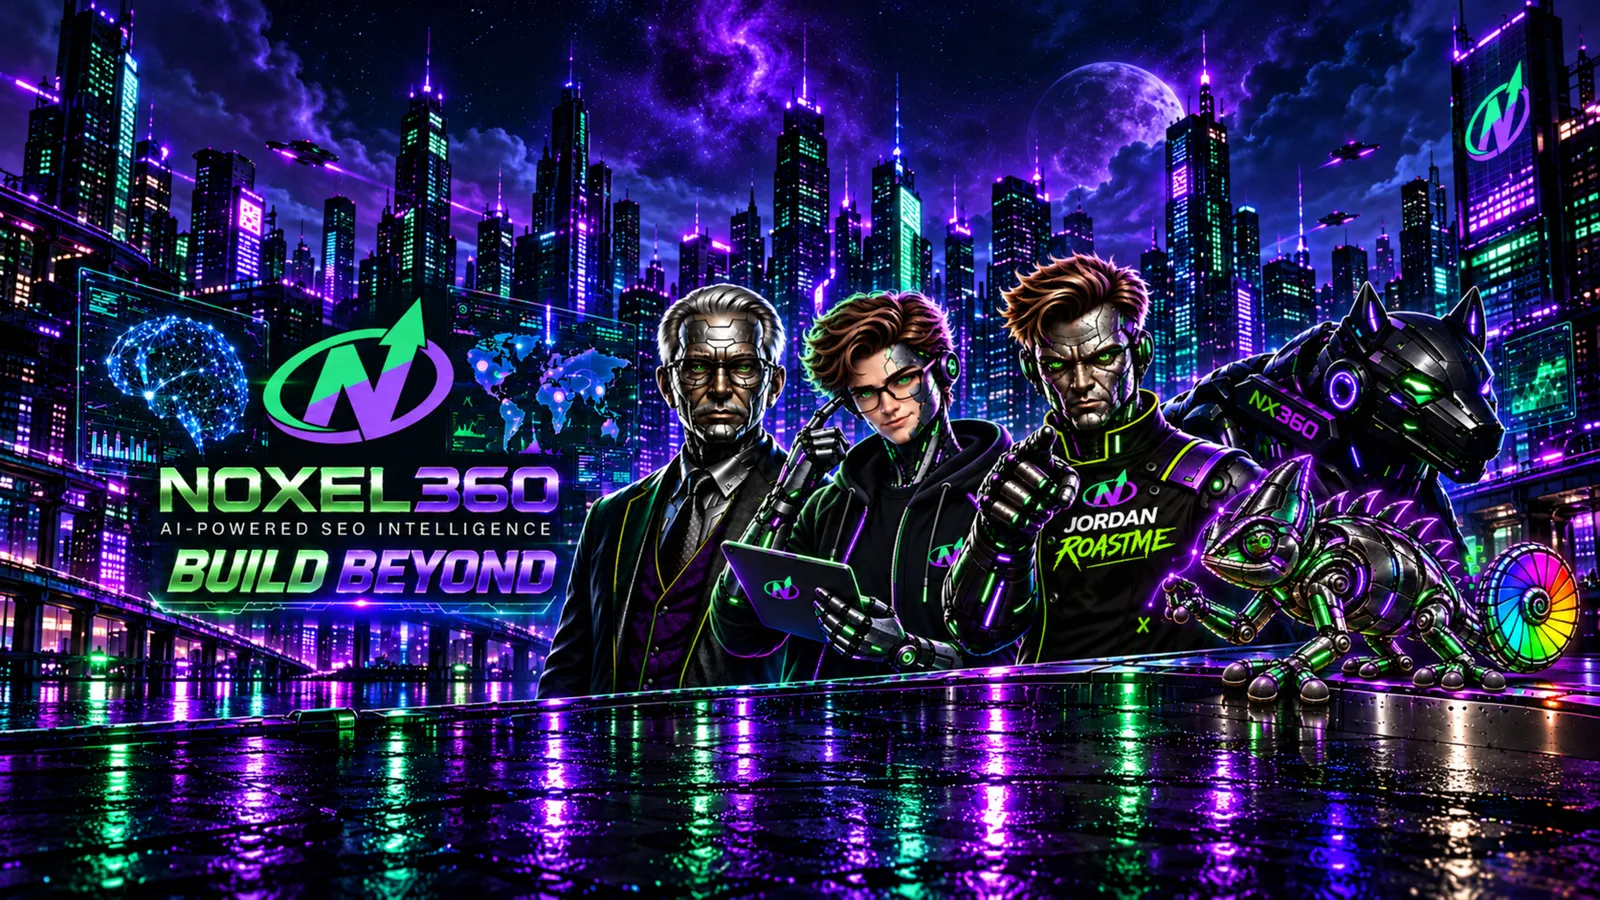
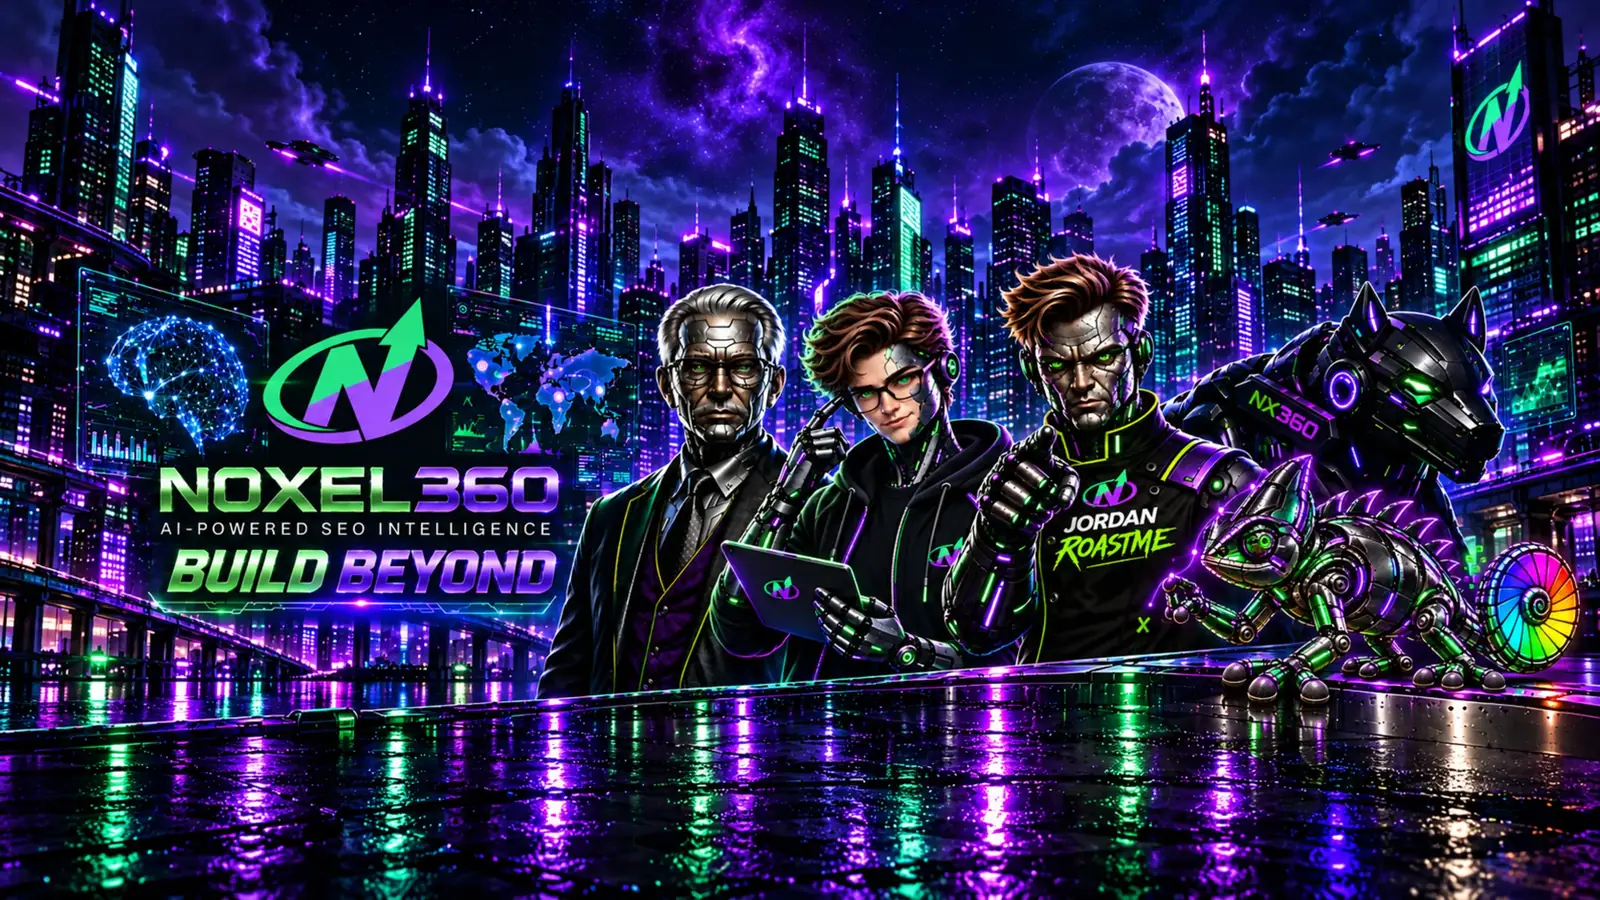
Scan des pages publiques : /dashboard et /nexus avec leur propre page, prix et équipe complétés
- scripts/route-pages.mjs : dist/dashboard.html et dist/nexus.html (titre, canonique,
  og, fil d'Ariane, texte de secours propres) ; réécritures vercel.json ; sitemap-core
- /pricing/ : titre de 54 caractères, H1 avec NOXEL360, Open Graph, JSON-LD
  (Organization, WebSite, WebPage, BreadcrumbList, FAQPage de la FAQ visible)
- /team/ : bannière en 800/1200/1600 px avec préchargement (LCP), Organization et
  WebSite, paragraphe « How the NOXEL team works together »
- Vidéo SPECTRA présentée comme en ligne (plus de bêta)

Claude-Session: https://claude.ai/code/session_01XfmUTvfHcRaKd6Xw6Nrt4c

diff --git a/frontend/public/pricing/index.html b/frontend/public/pricing/index.html
@@ -3,12 +3,77 @@
 <head>
   <meta charset="utf-8" />
   <meta name="viewport" content="width=device-width,initial-scale=1" />
-  <title>NOXEL360 — Pricing</title>
+  <title>NOXEL360 Pricing — NOXEL SEO, FORGE, NEXUS &amp; SPECTRA</title>
   <meta name="description" content="NOXEL360 links independent modules: NOXEL SEO, NOXEL FORGE, NOXEL NEXUS and NOXEL SPECTRA. Each module keeps its own plans and prices on its own site." />
   <link rel="canonical" href="https://noxel360.com/pricing/" />
   <link rel="alternate" hreflang="en" href="https://noxel360.com/pricing/" />
   <link rel="alternate" hreflang="x-default" href="https://noxel360.com/pricing/" />
   <link rel="icon" href="/favicon.ico" />
+  <meta property="og:type" content="website" />
+  <meta property="og:site_name" content="NOXEL360" />
+  <meta property="og:title" content="NOXEL360 Pricing — NOXEL SEO, FORGE, NEXUS &amp; SPECTRA" />
+  <meta property="og:description" content="NOXEL360 links independent modules. Each one keeps its plans and prices on its own site; NOXEL NEXUS is included and NOXEL SPECTRA is free today." />
+  <meta property="og:url" content="https://noxel360.com/pricing/" />
+  <meta property="og:image" content="https://noxel360.com/og-image.png" />
+  <meta property="og:image:width" content="1200" />
+  <meta property="og:image:height" content="630" />
+  <meta name="twitter:card" content="summary_large_image" />
+  <meta name="twitter:title" content="NOXEL360 Pricing — NOXEL SEO, FORGE, NEXUS &amp; SPECTRA" />
+  <meta name="twitter:description" content="Each NOXEL module keeps its plans and prices on its own site; NOXEL NEXUS is included and NOXEL SPECTRA is free today." />
+  <meta name="twitter:image" content="https://noxel360.com/og-image.png" />
+  <script type="application/ld+json">
+  {
+    "@context": "https://schema.org",
+    "@graph": [
+      {
+        "@type": "Organization",
+        "@id": "https://noxel360.com/#organization",
+        "name": "NOXEL360",
+        "url": "https://noxel360.com/",
+        "logo": "https://noxel360.com/favicon-512x512.png",
+        "sameAs": [
+          "https://www.facebook.com/NOXEL360/",
+          "https://www.linkedin.com/company/119803940/",
+          "https://www.tiktok.com/@noxel360",
+          "https://www.instagram.com/noxel360/",
+          "https://x.com/NOXEL360"
+        ]
+      },
+      {
+        "@type": "WebSite",
+        "@id": "https://noxel360.com/#website",
+        "name": "NOXEL360",
+        "url": "https://noxel360.com/",
+        "publisher": { "@id": "https://noxel360.com/#organization" }
+      },
+      {
+        "@type": "WebPage",
+        "name": "NOXEL360 pricing",
+        "url": "https://noxel360.com/pricing/",
+        "inLanguage": "en",
+        "description": "NOXEL360 links independent modules: NOXEL SEO, NOXEL FORGE, NOXEL NEXUS and NOXEL SPECTRA. Each module keeps its own plans and prices on its own site.",
+        "isPartOf": { "@id": "https://noxel360.com/#website" },
+        "publisher": { "@id": "https://noxel360.com/#organization" }
+      },
+      {
+        "@type": "BreadcrumbList",
+        "itemListElement": [
+          { "@type": "ListItem", "position": 1, "name": "NOXEL360", "item": "https://noxel360.com/" },
+          { "@type": "ListItem", "position": 2, "name": "Pricing", "item": "https://noxel360.com/pricing/" }
+        ]
+      },
+      {
+        "@type": "FAQPage",
+        "mainEntity": [
+          { "@type": "Question", "name": "Do I need separate accounts for each module?", "acceptedAnswer": { "@type": "Answer", "text": "Yes, for now. NOXEL SEO and NOXEL FORGE each have their own sign-in and their own plans on their own sites. Your NOXEL360 account covers the dashboard, NOXEL NEXUS and the Learn library." } },
+          { "@type": "Question", "name": "Can I use just one module?", "acceptedAnswer": { "@type": "Answer", "text": "Yes. Each module stands on its own: using NOXEL FORGE doesn't require NOXEL SEO, and vice versa." } },
+          { "@type": "Question", "name": "Is NOXEL NEXUS a paid add-on?", "acceptedAnswer": { "@type": "Answer", "text": "No. It's included with your NOXEL360 account at no extra cost." } },
+          { "@type": "Question", "name": "Is NOXEL SPECTRA free?", "acceptedAnswer": { "@type": "Answer", "text": "Yes, today. Its image and video tools are online at app.noxelspectra.com and video.noxelspectra.com. Paid plans will be announced on noxelspectra.com before they start." } }
+        ]
+      }
+    ]
+  }
+  </script>
   <!-- NOXEL Consent 1.5.0 : aucun outil facultatif sur NOXEL360 pour l’instant ; préférences + relais du choix entre les sites NOXEL -->
   <link rel="stylesheet" href="/consent/noxel-consent.css">
   <script defer src="/consent/sites.js"></script>
@@ -45,7 +110,7 @@
 
   <main class="nx-page">
     <div class="nx-page-header">
-      <h1 class="nx-page-title">Pricing</h1>
+      <h1 class="nx-page-title">NOXEL360 pricing</h1>
       <span class="nx-page-subtitle">NOXEL360 isn't one bundled plan: it links independent modules. Each module keeps its plans and prices on its own site, so what you see there is always current.</span>
     </div>
 
@@ -93,7 +158,7 @@
         <ul class="nx-pcard__items">
           <li><span style="color:#3ddc84">✓</span>Convert, compress, resize, crop</li>
           <li><span style="color:#3ddc84">✓</span>Background removal and SVG vectorization</li>
-          <li><span style="color:#3ddc84">✓</span>Video tools (beta), right in your browser</li>
+          <li><span style="color:#3ddc84">✓</span>Video tools, right in your browser</li>
         </ul>
         <a class="nx-pcard__cta" href="https://www.noxelspectra.com/" rel="noopener">→ Open NOXEL SPECTRA</a>
       </div>
@@ -114,7 +179,7 @@
         <dt>Is NOXEL NEXUS a paid add-on?</dt>
         <dd>No. It's included with your NOXEL360 account at no extra cost.</dd>
         <dt>Is NOXEL SPECTRA free?</dt>
-        <dd>Yes, today. Its image tools are online at app.noxelspectra.com and its video tools are in beta. Paid plans will be announced on noxelspectra.com before they start.</dd>
+        <dd>Yes, today. Its image and video tools are online at app.noxelspectra.com and video.noxelspectra.com. Paid plans will be announced on noxelspectra.com before they start.</dd>
       </dl>
     </section>
   </main>

diff --git a/frontend/public/team/index.html b/frontend/public/team/index.html
@@ -9,6 +9,7 @@
   <link rel="alternate" hreflang="en" href="https://noxel360.com/team/" />
   <link rel="alternate" hreflang="x-default" href="https://noxel360.com/team/" />
   <link rel="icon" href="/favicon.ico" />
+  <link rel="preload" as="image" href="/team/noxel-team-1200.webp" imagesrcset="/team/noxel-team-800.webp 800w, /team/noxel-team-1200.webp 1200w, /team/noxel-team-1600.webp 1600w, /team/noxel-team-2560.webp 2560w" imagesizes="(max-width: 1400px) calc(100vw - 48px), 1352px" fetchpriority="high" />
   <meta property="og:type" content="website" />
   <meta property="og:site_name" content="NOXEL360" />
   <meta property="og:title" content="The NOXEL team — one character per module" />
@@ -21,13 +22,35 @@
     "@context": "https://schema.org",
     "@graph": [
       {
+        "@type": "Organization",
+        "@id": "https://noxel360.com/#organization",
+        "name": "NOXEL360",
+        "url": "https://noxel360.com/",
+        "logo": "https://noxel360.com/favicon-512x512.png",
+        "sameAs": [
+          "https://www.facebook.com/NOXEL360/",
+          "https://www.linkedin.com/company/119803940/",
+          "https://www.tiktok.com/@noxel360",
+          "https://www.instagram.com/noxel360/",
+          "https://x.com/NOXEL360"
+        ]
+      },
+      {
+        "@type": "WebSite",
+        "@id": "https://noxel360.com/#website",
+        "name": "NOXEL360",
+        "url": "https://noxel360.com/",
+        "publisher": { "@id": "https://noxel360.com/#organization" }
+      },
+      {
         "@type": "AboutPage",
         "name": "The NOXEL team",
         "url": "https://noxel360.com/team/",
         "inLanguage": "en",
         "description": "The characters of the NOXEL360 ecosystem, one per module.",
         "primaryImageOfPage": { "@type": "ImageObject", "url": "https://noxel360.com/team/noxel-team-2560.webp", "width": 2560, "height": 1440 },
-        "publisher": { "@type": "Organization", "name": "NOXEL360", "url": "https://noxel360.com/" }
+        "isPartOf": { "@id": "https://noxel360.com/#website" },
+        "publisher": { "@id": "https://noxel360.com/#organization" }
       },
       {
         "@type": "BreadcrumbList",
@@ -62,6 +85,10 @@
     .nx-member p { font-size: 13px; color: rgba(255,255,255,0.62); line-height: 1.6; }
     .nx-member a { margin-top: auto; color: #3ddc84; font-size: 12px; font-weight: 700; text-decoration: none; }
     .nx-member a:hover { text-decoration: underline; }
+    .nx-team-more { margin-top: 18px; max-width: 900px; display: grid; gap: 10px; }
+    .nx-team-more h2 { font-size: 20px; font-weight: 900; }
+    .nx-team-more p { font-size: 14px; color: rgba(255,255,255,0.68); line-height: 1.7; }
+    .nx-team-more a { color: #3ddc84; }
     @media (max-width: 1100px) { .nx-team-grid { grid-template-columns: repeat(3, 1fr); } }
     @media (max-width: 700px) { .nx-team-grid { grid-template-columns: 1fr 1fr; } }
     @media (max-width: 460px) { .nx-team-grid { grid-template-columns: 1fr; } }
@@ -89,9 +116,9 @@
       <span class="nx-page-subtitle">One character per module. Built Beyond.</span>
     </div>
 
-    <img class="nx-team-banner" src="/team/noxel-team-1600.webp" srcset="/team/noxel-team-1600.webp 1600w, /team/noxel-team-2560.webp 2560w" sizes="(max-width: 1400px) 100vw, 1352px" width="2560" height="1440" alt="The NOXEL team in a neon city: Alfred, Noxel, Jordan Roastme, the robot dog NX360 and Chroma the rainbow chameleon, next to the NOXEL360 logo." />
+    <img class="nx-team-banner" src="/team/noxel-team-1200.webp" srcset="/team/noxel-team-800.webp 800w, /team/noxel-team-1200.webp 1200w, /team/noxel-team-1600.webp 1600w, /team/noxel-team-2560.webp 2560w" sizes="(max-width: 1400px) calc(100vw - 48px), 1352px" fetchpriority="high" decoding="async" width="2560" height="1440" alt="The NOXEL team in a neon city: Alfred, Noxel, Jordan Roastme, the robot dog NX360 and Chroma the rainbow chameleon, next to the NOXEL360 logo." />
 
-    <p class="nx-team-lead">Every NOXEL module has its own character. They share one look, the green and violet of the NOXEL “N”, because the modules work together inside NOXEL360. Here is who does what.</p>
+    <p class="nx-team-lead">The NOXEL team is the cast of NOXEL360: every NOXEL module has its own character. They share one look, the green and violet of the NOXEL “N”, because the modules work together inside NOXEL360. Here is who does what.</p>
 
     <div class="nx-team-grid">
       <article class="nx-member">
@@ -130,6 +157,12 @@
         <a href="https://www.noxelspectra.com/" rel="noopener">Visit NOXEL SPECTRA →</a>
       </article>
     </div>
+
+    <section class="nx-team-more" aria-labelledby="team-together">
+      <h2 id="team-together">How the NOXEL team works together</h2>
+      <p>A typical path through NOXEL360 follows the family. Noxel and the NOXEL SEO audit show what holds a site back: slow pages, missing structured data, thin content or pages that AI search engines cannot read. Jordan Roastme says the same thing louder when a site needs a wake-up call. Once the fixes are in place, Alfred and NOXEL FORGE help the site earn authority with verified backlink exchanges between real, proven domains, never link farms. Chroma and NOXEL SPECTRA keep images and videos light, which helps the speed scores the audit measures. NX360 ties it all together on the NOXEL360 dashboard, next to NOXEL NEXUS for languages and regions.</p>
+      <p>Each character speaks for one module, and each module keeps its own site and its own plans. See <a href="/pricing/">NOXEL360 pricing</a>, open the <a href="/dashboard">dashboard</a> or browse the <a href="/learn/">Learn library</a> to go further.</p>
+    </section>
   </main>
 
   <footer class="nx-foot">

diff --git a/CLAUDE.md b/CLAUDE.md
@@ -37,7 +37,7 @@ NOXEL360 ne compte que quatre modules :
 | seo | NOXEL SEO | https://noxelseo.com (produit externe) | ready |
 | forge | NOXEL FORGE | https://noxelforge.com (produit externe) | ready |
 | nexus | NOXEL NEXUS | `/nexus` (seul module interne) | core |
-| spectra | NOXEL SPECTRA | https://noxelspectra.com | ready (images en ligne, vidéo en test) |
+| spectra | NOXEL SPECTRA | https://noxelspectra.com | ready (images et vidéo en ligne) |
 
 Prix : chaque module garde ses prix et paliers sur son propre site (noxelseo.com, noxelforge.com). NOXEL360 n'affiche aucun prix ; Nexus est inclus avec le compte, Spectra est gratuit pour l'instant (ses forfaits seront annoncés sur noxelspectra.com).
 
@@ -50,7 +50,7 @@ Prix : chaque module garde ses prix et paliers sur son propre site (noxelseo.com
 3. **i18n** : `FULLY_TRANSLATED_CODES` (languageCatalog.ts) liste les langues complètes (26 aujourd'hui). Ajouter une langue = `locales/XX.ts` + entrée dans `translate.ts` + code dans `FULLY_TRANSLATED_CODES`. Clés identiques à `en.ts`.
 4. **Langues autochtones** : jamais de traduction automatique publiée. Seuls des locuteurs natifs ou traducteurs approuvés par la communauté (voir CONTRIBUTING_LANGUAGES.md).
 5. **Couleurs officielles** : vert #3ddc84, violet #A855F7. L'ancien vert #3cde6a (et `rgba(60,222,106,…)`) a été remplacé partout ; il ne doit pas revenir.
-6. **vercel.json** : seul `frontend/vercel.json` est lu (racine du projet Vercel = frontend/). Le site appelle l'API directement sur https://api.noxel360.com (`VITE_API_URL`), pas de proxy /api. Les rewrites vers index.html ne listent que les routes de App.tsx (/dashboard, /nexus, /privacy, /terms, /app/*, /auth/*) : pas de catch-all, une adresse inconnue répond 404 (public/404.html). Nouvelle route React = l'ajouter aux rewrites.
+6. **vercel.json** : seul `frontend/vercel.json` est lu (racine du projet Vercel = frontend/). Le site appelle l'API directement sur https://api.noxel360.com (`VITE_API_URL`), pas de proxy /api. Les rewrites vers index.html ne listent que les routes de App.tsx (/dashboard, /nexus, /privacy, /terms, /app/*, /auth/*) : pas de catch-all, une adresse inconnue répond 404 (public/404.html). Nouvelle route React = l'ajouter aux rewrites. `/dashboard` et `/nexus` ont leur propre page (`scripts/route-pages.mjs`, lancé après `vite build` : titre, canonique, og:*, fil d'Ariane et texte de secours propres, réécriture vers `/dashboard.html` / `/nexus.html`, listées dans sitemap-core) ; une nouvelle route indexable s'y ajoute.
 7. **Contrat API** : réponses `{ ok: boolean, ... , error?: string }`. Codes 400 / 401 / 403 / 500 cohérents.
 8. **CORS** : géré uniquement par `server.ts` (liste blanche `allowedOrigins` + `credentials: true`). Ne jamais ajouter d'en-tête `Access-Control-Allow-Origin` dans `vercel.json` : un `*` est incompatible avec les cookies de session.
 9. **Routes actives** : seules les routes montées dans `server.ts` existent en production : `/health`, `/api/health` et `/api/auth/*`. `/api/seo/*` n'est qu'une redirection 301 vers https://noxelseo.com : NOXEL360 n'a plus de moteur SEO interne, ne pas en recréer un. Un fichier de route non monté est du code mort : ne pas le présenter comme fonctionnel.
